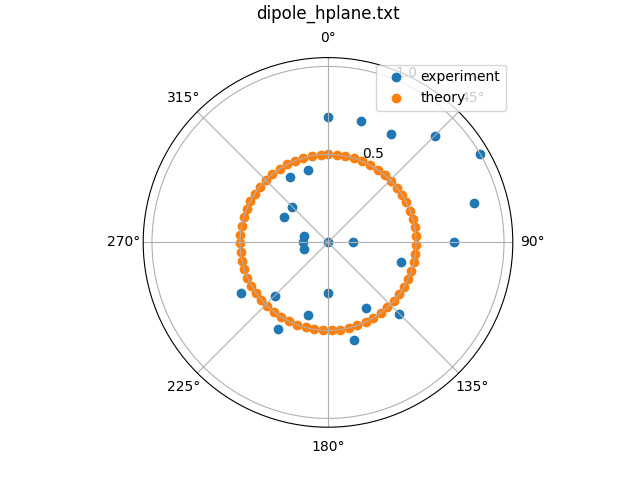
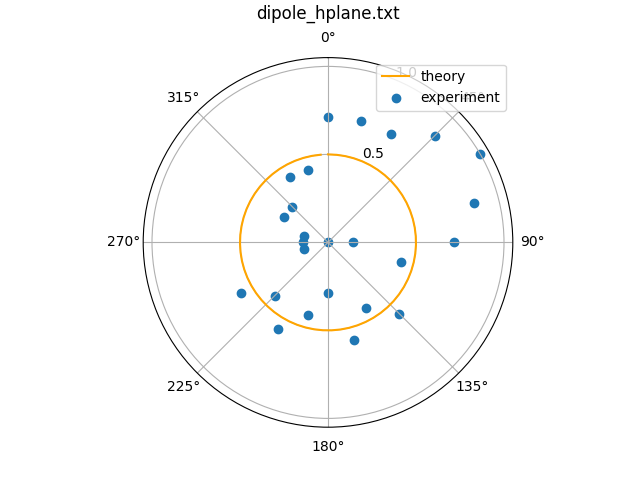
solid color orange plots on dipole planes

Changed region(s): [[0.3438, 0.3125, 0.6562, 0.7188], [0.6562, 0.125, 0.7812, 0.2188], [0.5938, 0.1562, 0.625, 0.2188]]

diff --git a/polar_plot_dipole.py b/polar_plot_dipole.py
@@ -1,0 +1,56 @@
+'''
+Yong Da Li
+Friday, February 10, 2023
+
+polar plots for ECE422 lab 1
+'''
+
+import numpy as np
+import matplotlib.pyplot as plt
+
+# change the theory calculations as needed
+theta_theory = np.arange(0, 2*np.pi, 0.1)
+# r_theory = np.sin(theta_theory)
+# r_theory = ( (np.cos(np.pi/2 * np.cos(theta_theory))) / (np.sin(theta_theory)) )**2
+r_theory = 0.5* np.ones(len(theta_theory))     # constant
+
+filename = "dipole_hplane.txt"
+theta = []
+val = []
+with open(filename, "r") as f:
+    line = f.read().split("\n")
+    for elem in line:
+        theta.append(float(elem.split("\t")[0]))
+        val.append(float(elem.split("\t")[1]))
+        
+
+# convert theta to radians
+theta = np.array(theta)
+theta = ((theta+90)%360) * np.pi / 180  # our measurement started at max power (this should be theta = 90)
+
+# raise so min value is 0, and normalize
+val = np.array(val)
+val_raised = val - min(val)
+
+val_norm = val_raised / max(val_raised)
+
+# ====== debugging ==========
+# print("==== this is what is being plotted after normalizing and re-orienting ====")
+# for i, (x, y) in enumerate(zip(theta, val_norm)):
+#     print("{:2d}, {:f}, {:f}".format( i, x, y))
+
+fig, ax = plt.subplots(subplot_kw={'projection': 'polar'})
+ax.scatter(theta, val_norm, label="experiment")
+ax.plot(theta_theory, r_theory, color='orange', label="theory")
+ax.set_theta_zero_location("N")
+ax.set_theta_direction(-1)  # theta increasing clockwise
+
+
+# ax.set_rmax(2)
+ax.set_rticks([0.5, 1.0])  # Less radial ticks
+# ax.set_rlabel_position(-22.5)  # Move radial labels away from plotted line
+ax.grid(True)
+ax.legend()
+ax.set_title(filename, va='bottom')
+plt.savefig("plots/" + filename.replace("txt", "png"))
+# plt.show()
